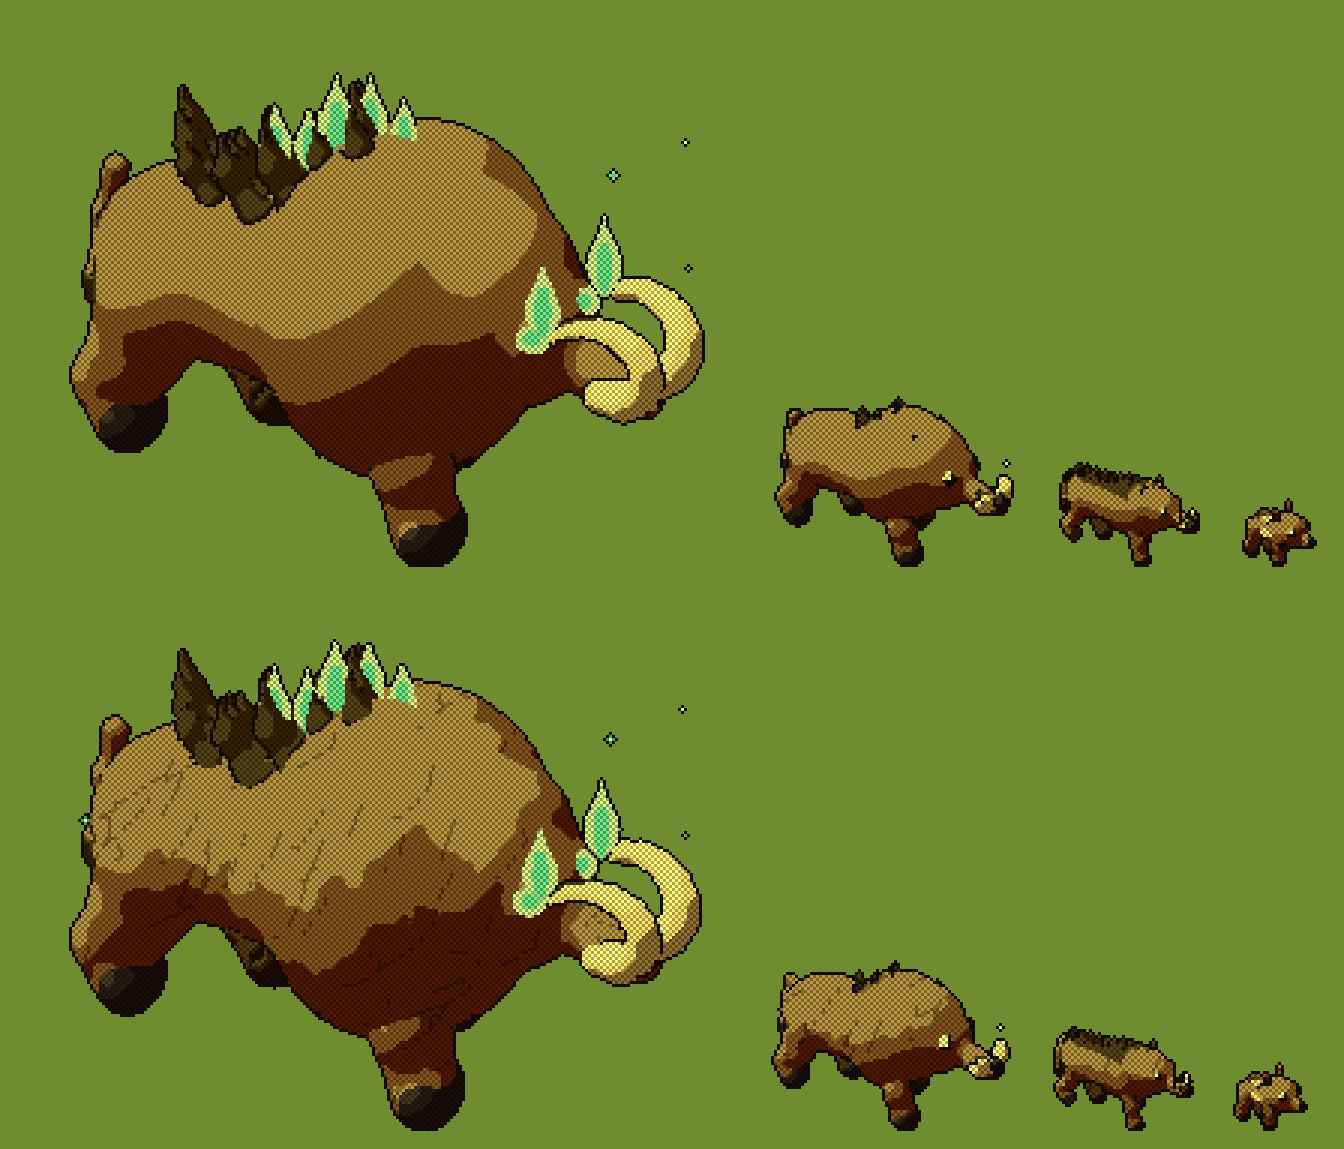
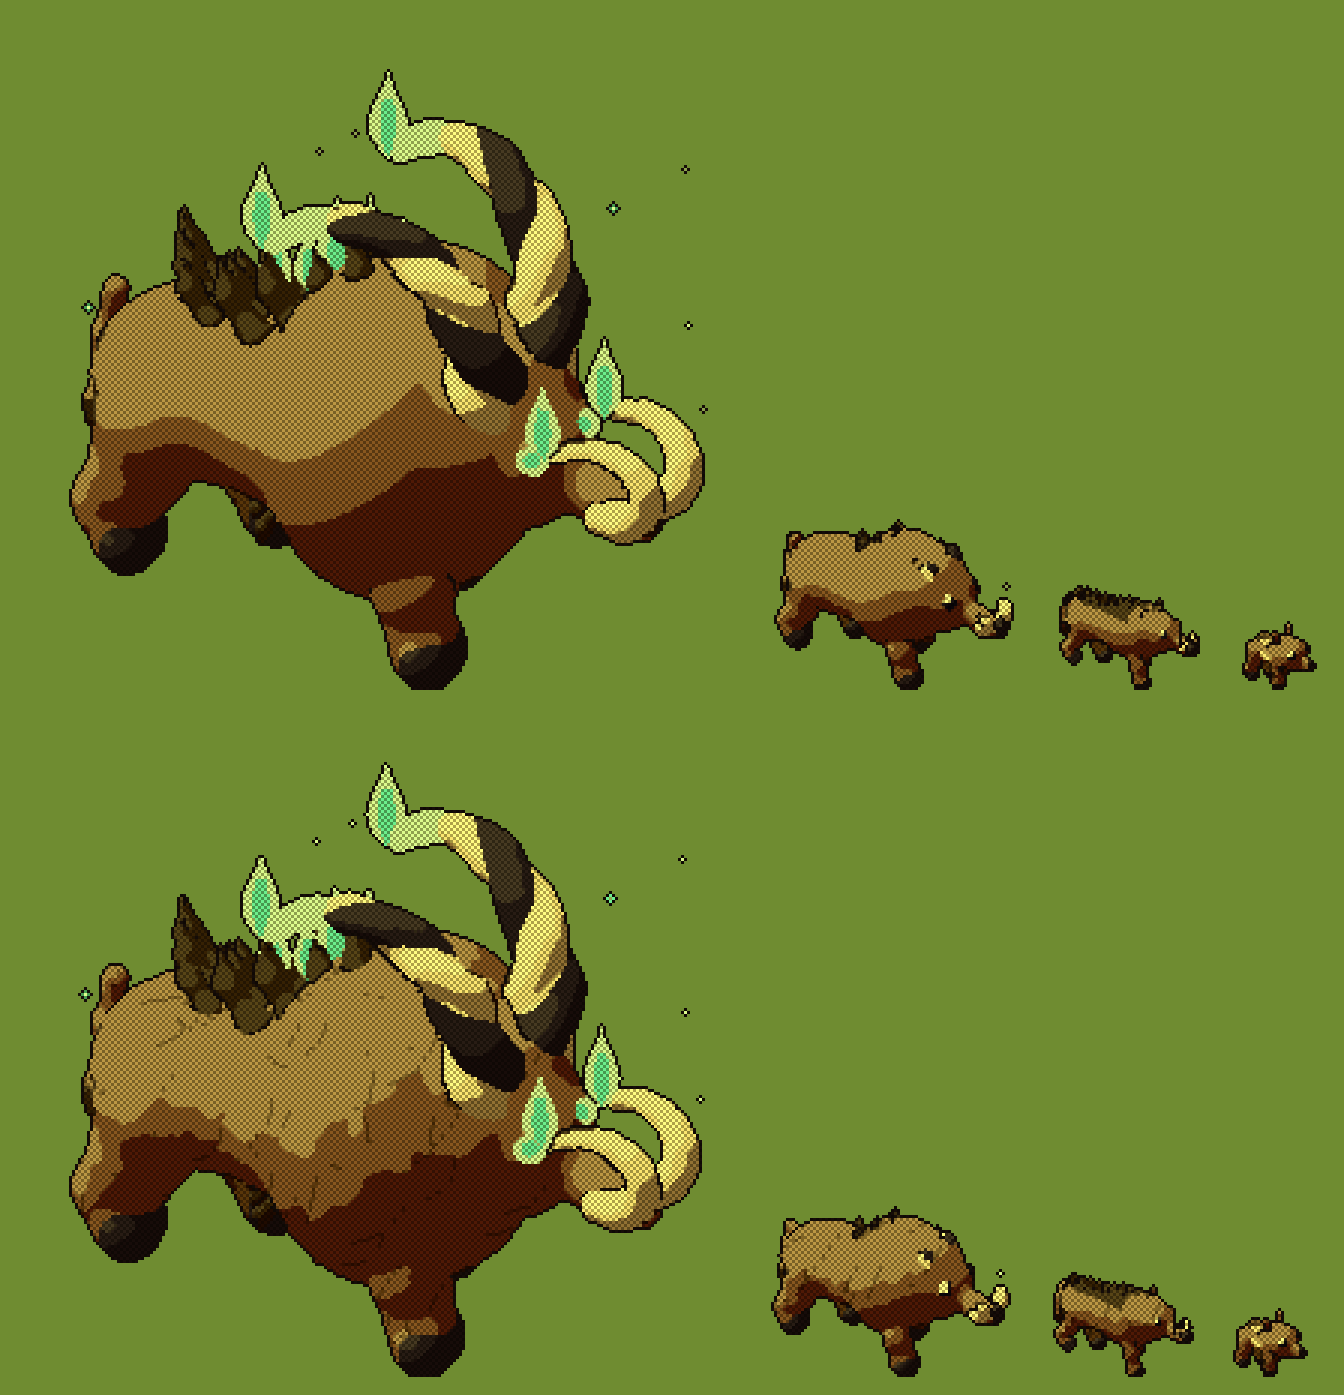
Legend boar: enormous twisting horns over the hump (a reusable horn part)
Ed: "the legendary boar should have enormous fantastic twisty horns". horn3d
(genome parts horns: "twist", its shape in head.horn: length, r, curl, twist,
ridges, segs, out, tip, mat2): two strands spiralling round a sweeping axis,
ridged and tapering to a point, the second strand darker so the twist reads,
the tips glowing; wisps at "horns" put flames on them. The adult has nubs.
Level parts are now checked against the template's sockets too.

Claude-Session: https://claude.ai/code/session_01CCJ1G3QaUxYK9jSu9176NM

diff --git a/art/creatures3d.js b/art/creatures3d.js
@@ -112,7 +112,7 @@ function gearUp(m) {
 // parts are tapered and curved, so a row of them reads as a mane or a crest, never a hand of fingers.
 //   mane: { from, to (along the back, 0 rump to 1 head), height, count, lean, mat, belly (along the underside instead) }
 //   eyeglint: { size }: its eyes' glint brought out to the surface, where its body hides its face.
-//   wisps: { at: "tusks" | "mane", size, mat, (mane: count, from, to) }: flames off its tusks' tips, or rising along its spine (glowing).
+//   wisps: { at: "tusks" | "horns" | "mane", size, mat, (mane: count, from, to) }: flames off its tusks' or horns' tips, or rising along its spine (glowing).
 export const EVOLVE_KINDS = ["mane", "wisps", "eyeglint"];
 function evolve3d(m, feats, c) {
   for (const f of feats) {
@@ -142,10 +142,10 @@ function evolve3d(m, feats, c) {
       for (let i = 0; i < n; i++) { const t = (f.from ?? .35) + ((f.to ?? .85) - (f.from ?? .35)) * (i + .5) / n, b = c.backAt(t), up = v3.norm([-.35 - (c.frame ? .1 : 0), 1, 0]), k = s * (.75 + .5 * Math.abs(Math.sin(i * 2.1 + .7)));
         m.flat(v3.add([b[0], b[1] + s * .4, b[2]], v3.mul(up, k * .55)), [1, 0, 0], up, k * .3, k * .6, masks.flame(M[f.mat || "MAGIC2"], M.MAGIC), { group: 110 + i, extra: true }); }
     }
-    if (f.kind === "wisps" && f.at === "tusks") {
+    if (f.kind === "wisps" && (f.at === "tusks" || f.at === "horns")) {
       m.part = "head";
       const s = f.size ?? .18;
-      c.tuskTips.forEach((p, i) => { const up = v3.norm([-.3 - (c.frame ? .1 : 0), 1, 0]); m.flat(v3.add(p, v3.mul(up, s * .55)), [1, 0, 0], up, s * .3, s * .6, masks.flame(M[f.mat || "MAGIC2"], M.MAGIC), { group: 96 + i, extra: true }); });
+      (f.at === "horns" ? c.hornTips : c.tuskTips).forEach((p, i) => { const up = v3.norm([-.3 - (c.frame ? .1 : 0), 1, 0]); m.flat(v3.add(p, v3.mul(up, s * .55)), [1, 0, 0], up, s * .3, s * .6, masks.flame(M[f.mat || "MAGIC2"], M.MAGIC), { group: 96 + i, extra: true }); });
     }
   }
   m.part = "body";
@@ -233,7 +233,9 @@ export function quad3d(S, level, frame, st, facing = "towards") {
   if (!has("tails")) tail3d(m, has("starTail") ? "star" : q.tail, tb, len, top, tw);
   m.part = "head";
   // ---- horns, antlers, tusks ----
-  if (q.horns) for (const side of [-1, 1]) { const k = has("hornsGlow") ? 1.5 : sz("horns"), pts = []; for (let i = 0; i <= 8; i++) { const a = .3 - i / 8 * Math.PI * 1.6, r = hr * .65 * k * (1 - .45 * i / 8); pts.push([H[0] - hr * .1 + Math.cos(a) * r, H[1] + hr * .45 + Math.sin(a) * r, side * (hr * .6 + i * .015)]); pts[i].push(hr * .2 * k * (1 - .6 * i / 8)); } m.chain(pts, has("hornsGlow") ? M.MAGIC : M.ACCENT, { group: 13 }); }
+  const hornTips = [];
+  if (q.horns === "twist") for (const side of [-1, 1]) hornTips.push(horn3d(m, [H[0] - hr * .05, H[1] + hr * .6, side * hr * .45], side, { ...q.horn, length: (q.horn?.length ?? 2) * hr, r: (q.horn?.r ?? .3) * hr }));
+  else if (q.horns) for (const side of [-1, 1]) { const k = has("hornsGlow") ? 1.5 : sz("horns"), pts = []; for (let i = 0; i <= 8; i++) { const a = .3 - i / 8 * Math.PI * 1.6, r = hr * .65 * k * (1 - .45 * i / 8); pts.push([H[0] - hr * .1 + Math.cos(a) * r, H[1] + hr * .45 + Math.sin(a) * r, side * (hr * .6 + i * .015)]); pts[i].push(hr * .2 * k * (1 - .6 * i / 8)); } m.chain(pts, has("hornsGlow") ? M.MAGIC : M.ACCENT, { group: 13 }); }
   if (q.antlers || has("jackalope")) for (const side of [-1, 1]) antlers3d(m, q, [H[0] - hr * .05, H[1] + hr * .75, side * hr * .4], side, sz("antlers"), has);
   const tuskTips = [];
   if (q.tusks) for (const side of [-1, 1]) {
@@ -248,7 +250,7 @@ export function quad3d(S, level, frame, st, facing = "towards") {
   // ---- legendary features ----
   m.part = "body";
   const backAt = t => [-len * .9 + t * len * 1.65, top + hump * Math.max(0, 1 - Math.abs(t - .8) * 3) + arch * (1 - Math.abs(t - .4) * 2), 0];
-  if (feats?.length) evolve3d(m, feats, { H, hr, sn, L, Dm, tuskTips, backAt, len, top, chest, tuck, bw, frame });
+  if (feats?.length) evolve3d(m, feats, { H, hr, sn, L, Dm, tuskTips, hornTips, backAt, len, top, chest, tuck, bw, frame });
   if (has("wings")) for (const side of [-1, 1]) wing3d(m, [len * .2, top, side * bw * .5], side, 1.15, frame ? .1 : 0, side > 0 ? M.MAGIC2 : M.MAGIC, M.MAGIC, 40 + (side > 0 ? 10 : 0));
   if (has("mane") || has("flames")) for (let i = 0; i < 7; i++) { const t = i / 6, b = v3.lerp(v3.add(H, [-hr * .5, hr * .3, 0]), backAt(.55), t), h = [.4, .3, .45, .28, .38, .25, .3][i], up = v3.norm([-.35 - (frame ? .1 : 0), 1, 0]); m.flat(v3.add(b, v3.mul(up, h * .5)), [1, 0, 0], up, h * .32, h * .55, masks.flame(i % 2 ? M.MAGIC : M.MAGIC2, M.MAGIC2), { group: 60 + i % 2, extra: true }); }
   if (has("tails")) for (let i = 0; i < 7; i++) { m.part = "tail"; const a = Math.PI * (.55 + i * .08), z = (i - 3) * .1, e = v3.add(tb, [Math.cos(a) * .9, Math.sin(a) * .85, z]); m.chain([[...tb, .1], [...v3.lerp(tb, e, .5), .17], [...e, .08]], i % 2 ? M.BODY2 : M.BODY, { group: 70, extra: true }); m.ell(e, [.09, .09, .09], M.MAGIC2, { group: 71, extra: true }); }
@@ -264,6 +266,25 @@ export function quad3d(S, level, frame, st, facing = "towards") {
   const sp = drawForm(m, { height: drawHeight(level, st, q.hgt), facing }, S, level);
   if (formMotes() && sz("motes")) glowMotes(sp, S.id.length * 7919, sz("motes"));
   return sp;
+}
+
+// A twisted horn (the parts kit's "horn that sweeps and curls"; genome parts horns: "twist", its shape in head.horn): from
+// `base` it rises up and out, then sweeps back by `curl` (half turns), two strands spiralling round each other `twist` times
+// along it (so it reads as twisted at game size), ridged every `ridges`th step (the second strand in `mat2`, if given, so the twist shows as a spiral band), tapering to a fine point; `tip` (a material
+// name) glows its last fifth. length and r in model units. Returns its tip.
+export function horn3d(m, base, side, { length = .5, r = .08, curl = .6, twist = 2, ridges = 3, segs = 18, out = .45, tip, mat = "ACCENT", mat2, group = 14 } = {}) {
+  const n = Math.max(4, segs), ds = length / n, A = [[], []];
+  let p = base;
+  for (let i = 0; i <= n; i++) {
+    const t = i / n, a = -.15 + Math.pow(t, 1.5) * curl * Math.PI, o = out * (1 - t * .7); // straight up first, then sweeping back
+    const dir = v3.norm([-Math.sin(a), Math.cos(a), side * o]), u = v3.norm(v3.cross(dir, [0, 0, 1])), w = v3.norm(v3.cross(u, dir));
+    const rr = r * (1 - t * .88) * (ridges && i % ridges === 0 && i < n ? 1.14 : 1), ph = t * twist * Math.PI * 2 * side;
+    for (const k of [0, 1]) { const f = ph + k * Math.PI, off = v3.add(v3.mul(u, Math.cos(f) * rr * .5), v3.mul(w, Math.sin(f) * rr * .5)); A[k].push([...v3.add(p, off), rr * .58]); }
+    if (i < n) p = v3.add(p, v3.mul(dir, ds));
+  }
+  const cut = Math.round(n * .8);
+  for (const [k, s] of A.entries()) { m.chain(s.slice(0, tip ? cut + 1 : n + 1), M[k && mat2 ? mat2 : mat] ?? M.ACCENT, { group, extra: true }); if (tip) m.chain(s.slice(cut), M[tip] ?? M.MAGIC2, { group: group + 1, extra: true }); }
+  return p;
 }
 
 function tail3d(m, kind, tb, len, top, tw) {

diff --git a/art/genome/species.js b/art/genome/species.js
@@ -23,11 +23,12 @@ export const GENOMES = [
     levels: [
       { body: { len: .6, chest: .3, tuck: .34, back: "arch" }, coat: { ridge: false, bands: { n: 2, mat: "BELLY" } } },
       null,
-      { body: { humpK: 2.2, neckAng: -.42, front: 1.18, legW: 1.3 }, head: { tuskSize: 1.15, tuskCurl: .75 }, coat: { ridge: false }, features: [{ kind: "mane", from: .45, to: .98, height: .14, count: 10, lean: .45 }] },
-      { body: { humpK: 2.8, neckAng: -.45, front: 1.36, legW: 1.45, chest: .3 }, head: { tuskSize: 1.7, tuskCurl: 1.25, eyeGlow: true }, coat: { ridge: false }, features: [ // (Ed, 2026-10-05: head down to charge, a battering ram; its eye glints under the hump, flames rise over it)
+      { body: { humpK: 2.2, neckAng: -.42, front: 1.18, legW: 1.3 }, head: { tuskSize: 1.15, tuskCurl: .75, horn: { length: .75, r: .3, curl: .12, twist: .5, ridges: 2, segs: 6, out: .3, mat2: "NOSE" } }, parts: { horns: "twist" }, coat: { ridge: false }, features: [{ kind: "mane", from: .45, to: .98, height: .14, count: 10, lean: .45 }] },
+      { body: { humpK: 2.8, neckAng: -.45, front: 1.36, legW: 1.45, chest: .3 }, head: { tuskSize: 1.7, tuskCurl: 1.25, eyeGlow: true, horn: { length: 5.2, r: .46, curl: .9, twist: 2.5, ridges: 3, segs: 24, out: .3, tip: "MAGIC2", mat2: "NOSE" } }, parts: { horns: "twist" }, coat: { ridge: false }, features: [ // (Ed, 2026-10-05: head down to charge, a battering ram; its eye glints under the hump, flames rise over it)
         { kind: "mane", from: .15, to: 1, height: .3, count: 18, lean: .55 },
         { kind: "mane", belly: true, from: .3, to: .95, height: .16, count: 10, lean: .4 },
         { kind: "wisps", at: "tusks", size: .3 },
+        { kind: "wisps", at: "horns", size: .32 },
         { kind: "wisps", at: "mane", size: .26, count: 5, from: .4, to: .9 },
         { kind: "eyeglint", size: .06 },
       ] },

diff --git a/art/genome/index.js b/art/genome/index.js
@@ -70,6 +70,7 @@ export function genomeProblems(g) {
   out.push(...faceProblems(g.id, { ...T.face, ...g.face }), ...textureProblems(g.id, { ...T.texture, ...g.texture }));
   if (g.levels) { if (Object.keys(g.levels).some(k => !["0", "1", "2", "3"].includes(k))) out.push(`${g.id}: levels are 0 to 3 (baby, young, adult, legend)`); for (const l of Object.values(g.levels)) for (const f of l?.features || []) if (typeof f === "object" && !GENOME_FEATURE_KINDS.includes(f.kind)) out.push(`${g.id}: no evolution feature ${f.kind}`); }
   for (const t of tags) if (!allowed.includes(t)) out.push(`${g.id}: ${t} isn't one of ${g.template}'s parts`);
+  for (const [lv, l] of Object.entries(g.levels || {})) for (const t of l?.parts ? genomeTags({ parts: l.parts }) : []) if (!allowed.includes(t)) out.push(`${g.id}: level ${lv}'s ${t} isn't one of ${g.template}'s parts`);
   for (const [a, b] of T.exclude) if (tags.some(t => genomeTagMatch(a, t)) && tags.some(t => genomeTagMatch(b, t))) out.push(`${g.id}: ${a} and ${b} together`);
   for (const k of ["hue", "sat", "val"]) if (!(g.palette[k] >= 0 && g.palette[k] <= 1)) out.push(`${g.id}: palette ${k} ${g.palette[k]}`);
   return out;

diff --git a/art/genome/templates.js b/art/genome/templates.js
@@ -18,7 +18,7 @@ export const TEMPLATES = {
       ears: ["ear.point", "ear.round", "ear.long", "ear.tuft", "ear.small", "ear.big", "ear.none"],
       tail: ["tail.brush", "tail.bushy", "tail.stub", "tail.deer", "tail.bob", "tail.puff", "tail.squirrel", "tail.thin", "tail.otter", "tail.flat", "tail.stoat", "tail.dormouse"],
       feet: ["foot.paw", "foot.hoof"],
-      horns: ["horn.curl"], antlers: ["antler.branch", "antler.palm"], tusks: ["tusk"],
+      horns: ["horn.curl", "horn.twist"], antlers: ["antler.branch", "antler.palm"], tusks: ["tusk"],
     },
     exclude: [["horn.*", "antler.*"], ["tusk", "antler.*"]],
     face: { brow: "bar", happy: "arc", dazed: "x" }, // its expressions' shapes (expressions.js)
